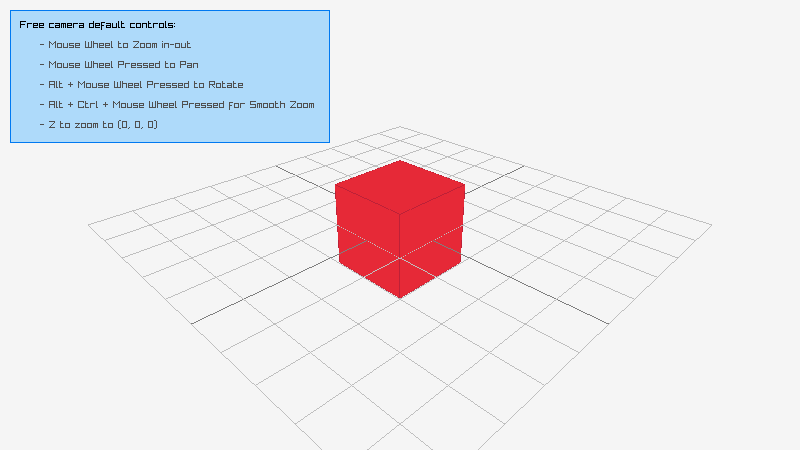
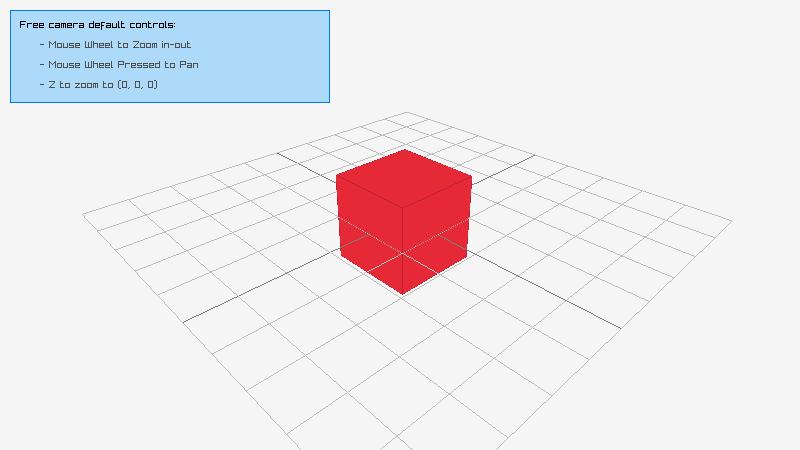
Fix example core_3d_camera_free (#3488)

diff --git a/examples/core/core_3d_camera_free.c b/examples/core/core_3d_camera_free.c
@@ -65,15 +65,13 @@ int main(void)
 
             EndMode3D();
 
-            DrawRectangle( 10, 10, 320, 133, Fade(SKYBLUE, 0.5f));
-            DrawRectangleLines( 10, 10, 320, 133, BLUE);
+            DrawRectangle( 10, 10, 320, 93, Fade(SKYBLUE, 0.5f));
+            DrawRectangleLines( 10, 10, 320, 93, BLUE);
 
             DrawText("Free camera default controls:", 20, 20, 10, BLACK);
             DrawText("- Mouse Wheel to Zoom in-out", 40, 40, 10, DARKGRAY);
             DrawText("- Mouse Wheel Pressed to Pan", 40, 60, 10, DARKGRAY);
-            DrawText("- Alt + Mouse Wheel Pressed to Rotate", 40, 80, 10, DARKGRAY);
-            //DrawText("- Alt + Ctrl + Mouse Wheel Pressed for Smooth Zoom", 40, 100, 10, DARKGRAY);
-            DrawText("- Z to zoom to (0, 0, 0)", 40, 120, 10, DARKGRAY);
+            DrawText("- Z to zoom to (0, 0, 0)", 40, 80, 10, DARKGRAY);
 
         EndDrawing();
         //----------------------------------------------------------------------------------
